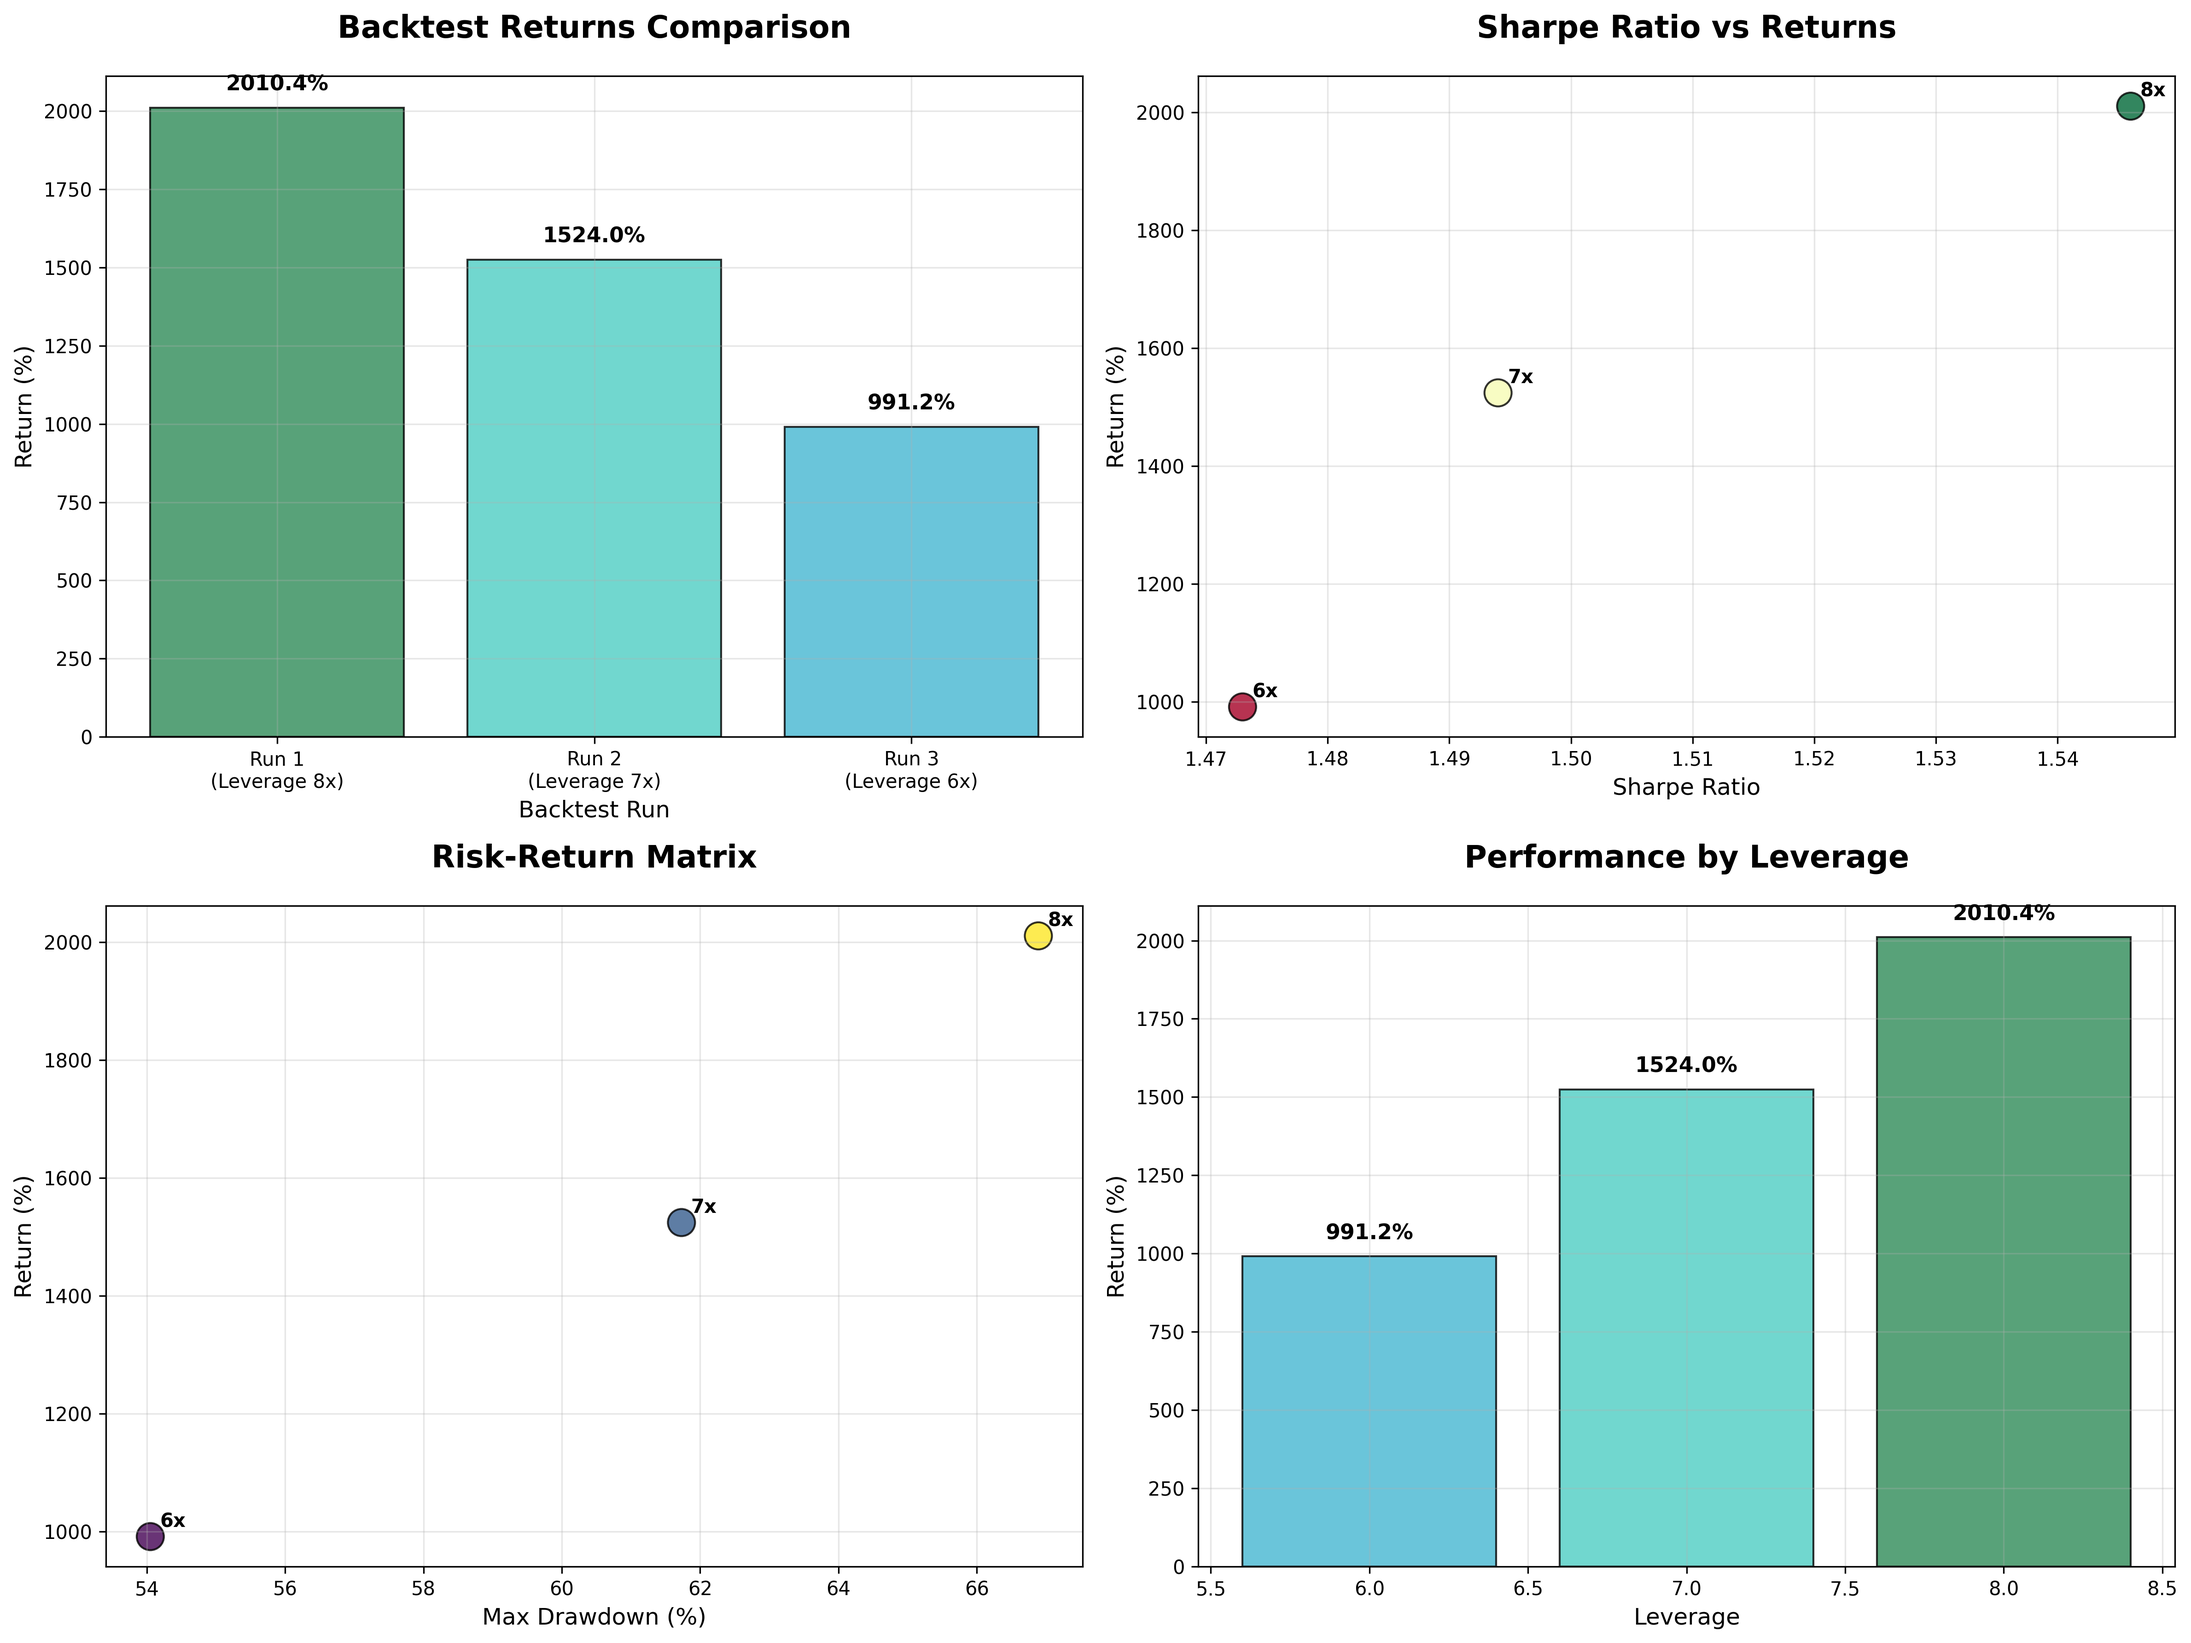
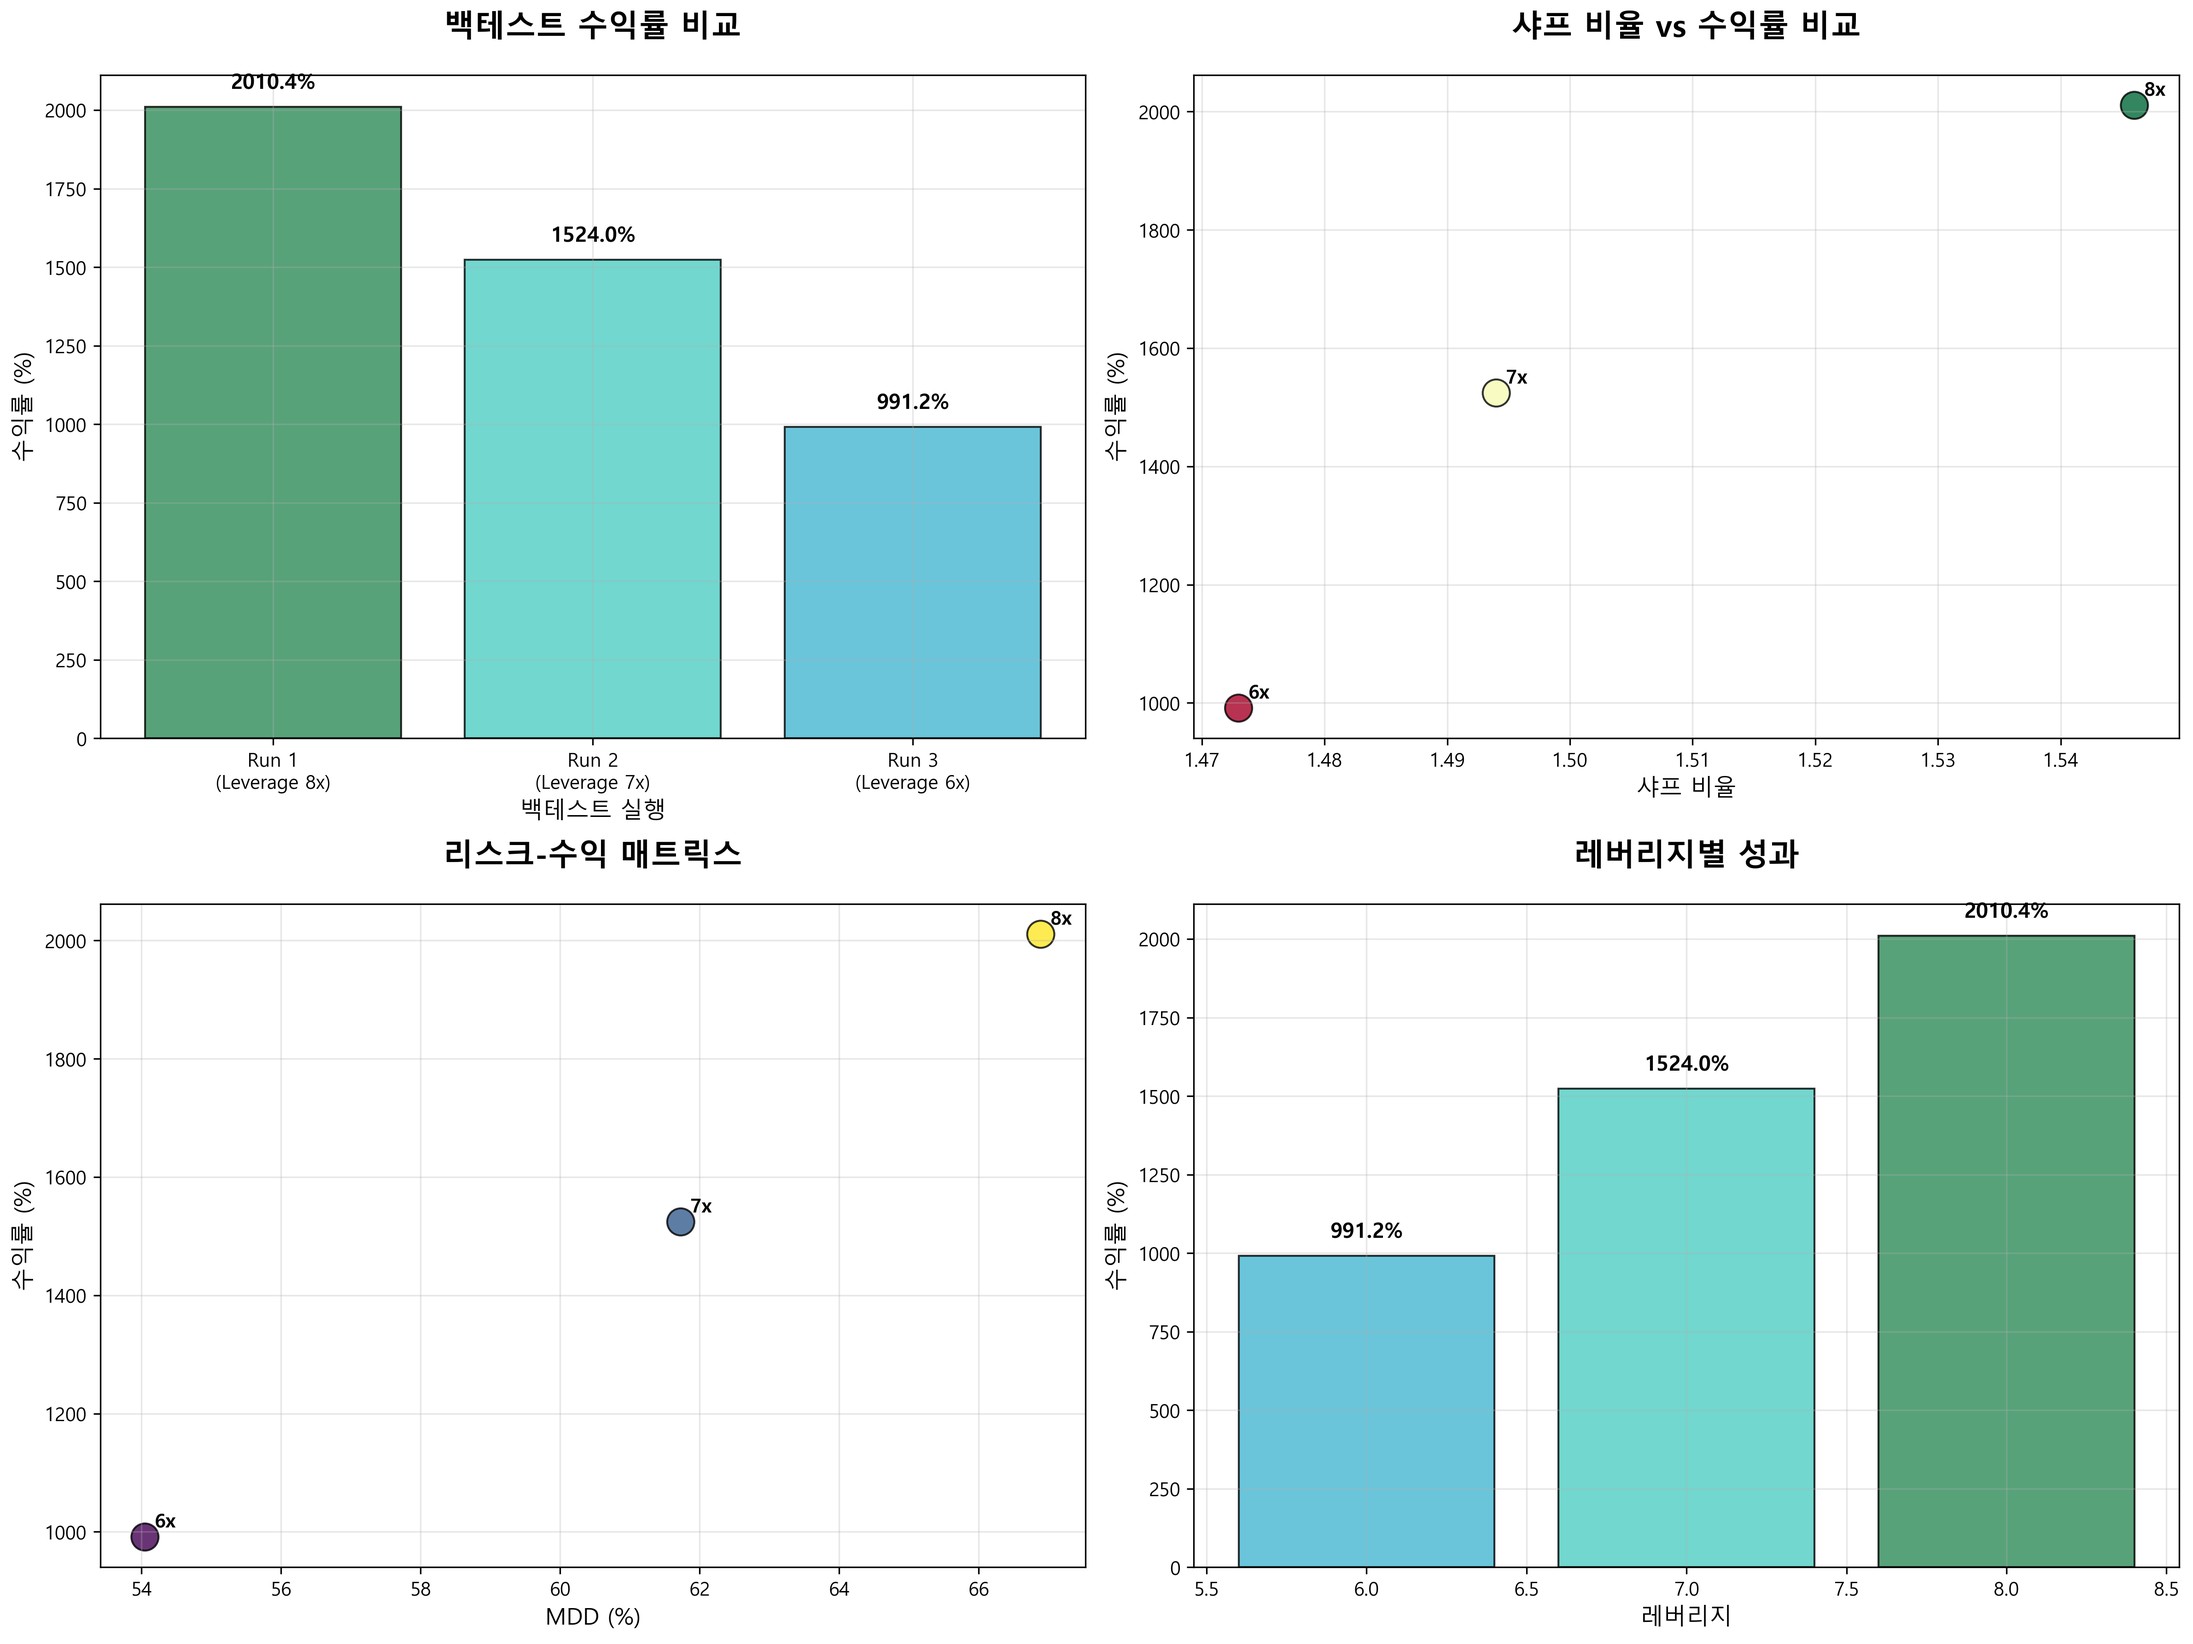
update

diff --git a/btc_martingale_backtest/create_performance_charts.py b/btc_martingale_backtest/create_performance_charts.py
@@ -6,7 +6,34 @@ from datetime import datetime
 import os
 
 # 한글 폰트 설정
-plt.rcParams['font.family'] = 'DejaVu Sans'
+import matplotlib.font_manager as fm
+
+# Windows에서 사용 가능한 한글 폰트 찾기
+def find_korean_font():
+    font_list = fm.findSystemFonts(fontpaths=None, fontext='ttf')
+    korean_fonts = []
+    
+    for font_path in font_list:
+        try:
+            font_prop = fm.FontProperties(fname=font_path)
+            font_name = font_prop.get_name()
+            # 한글을 지원하는 폰트 찾기
+            if any(keyword in font_name.lower() for keyword in ['malgun', 'gulim', 'dotum', 'batang', 'gungsuh', 'nanum', 'noto']):
+                korean_fonts.append(font_name)
+        except:
+            continue
+    
+    return korean_fonts[0] if korean_fonts else 'DejaVu Sans'
+
+# 한글 폰트 설정
+try:
+    korean_font = find_korean_font()
+    plt.rcParams['font.family'] = korean_font
+    print(f"한글 폰트 설정: {korean_font}")
+except:
+    plt.rcParams['font.family'] = 'DejaVu Sans'
+    print("한글 폰트를 찾을 수 없어 기본 폰트를 사용합니다.")
+
 plt.rcParams['axes.unicode_minus'] = False
 
 def create_performance_charts():
@@ -60,9 +87,9 @@ def create_performance_charts():
     # 차트 1: 수익률 비교
     colors = ['#2E8B57', '#4ECDC4', '#45B7D1']
     bars = ax1.bar(range(len(df)), df['arithmetic_return_pct'], color=colors, alpha=0.8, edgecolor='black', linewidth=1)
-    ax1.set_title('Backtest Returns Comparison', fontsize=16, fontweight='bold', pad=20)
-    ax1.set_xlabel('Backtest Run', fontsize=12)
-    ax1.set_ylabel('Return (%)', fontsize=12)
+    ax1.set_title('백테스트 수익률 비교', fontsize=16, fontweight='bold', pad=20)
+    ax1.set_xlabel('백테스트 실행', fontsize=12)
+    ax1.set_ylabel('수익률 (%)', fontsize=12)
     ax1.set_xticks(range(len(df)))
     ax1.set_xticklabels([f'Run {i+1}\n(Leverage {lev}x)' for i, lev in enumerate(df['leverage'])])
     ax1.grid(True, alpha=0.3)
@@ -76,9 +103,9 @@ def create_performance_charts():
     # 차트 2: 샤프 비율 vs 수익률
     scatter = ax2.scatter(df['sharpe_ratio'], df['arithmetic_return_pct'], 
                          c=df['arithmetic_return_pct'], cmap='RdYlGn', s=200, alpha=0.8, edgecolors='black')
-    ax2.set_title('📊 Sharpe Ratio vs Returns', fontsize=16, fontweight='bold', pad=20)
-    ax2.set_xlabel('Sharpe Ratio', fontsize=12)
-    ax2.set_ylabel('Return (%)', fontsize=12)
+    ax2.set_title('샤프 비율 vs 수익률 비교', fontsize=16, fontweight='bold', pad=20)
+    ax2.set_xlabel('샤프 비율', fontsize=12)
+    ax2.set_ylabel('수익률 (%)', fontsize=12)
     ax2.grid(True, alpha=0.3)
     
     # 각 점에 레버리지 표시
@@ -89,9 +116,9 @@ def create_performance_charts():
     # 차트 3: 리스크-수익 매트릭스
     risk_return = ax3.scatter(df['max_drawdown_pct'], df['arithmetic_return_pct'], 
                              c=df['sharpe_ratio'], s=200, cmap='viridis', alpha=0.8, edgecolors='black')
-    ax3.set_title('⚖ Risk-Return Matrix', fontsize=16, fontweight='bold', pad=20)
-    ax3.set_xlabel('Max Drawdown (%)', fontsize=12)
-    ax3.set_ylabel('Return (%)', fontsize=12)
+    ax3.set_title('리스크-수익 매트릭스', fontsize=16, fontweight='bold', pad=20)
+    ax3.set_xlabel('MDD (%)', fontsize=12)
+    ax3.set_ylabel('수익률 (%)', fontsize=12)
     ax3.grid(True, alpha=0.3)
     
     # 각 점에 레버리지 표시
@@ -101,9 +128,9 @@ def create_performance_charts():
     
     # 차트 4: 레버리지별 성과
     ax4.bar(df['leverage'], df['arithmetic_return_pct'], color=colors, alpha=0.8, edgecolor='black', linewidth=1)
-    ax4.set_title('🎯 Performance by Leverage', fontsize=16, fontweight='bold', pad=20)
-    ax4.set_xlabel('Leverage', fontsize=12)
-    ax4.set_ylabel('Return (%)', fontsize=12)
+    ax4.set_title('레버리지별 성과', fontsize=16, fontweight='bold', pad=20)
+    ax4.set_xlabel('레버리지', fontsize=12)
+    ax4.set_ylabel('수익률 (%)', fontsize=12)
     ax4.grid(True, alpha=0.3)
     
     # 수익률 값 표시
@@ -131,19 +158,19 @@ def create_performance_charts():
     avg_var = df['avg_var_dollar'].mean()
     
     summary_text = f"""
-    📊 PORTFOLIO PERFORMANCE SUMMARY
+    PORTFOLIO PERFORMANCE SUMMARY
     
-    💰 Best Return: {best_return:.1f}%
-    📈 Average Return: {avg_return:.1f}%
-    ⚡ Average Sharpe: {avg_sharpe:.3f}
-    📉 Average Drawdown: {avg_drawdown:.1f}%
-    🎯 Total Trades: {total_trades:,}
-    💸 Avg Commission: {avg_commission:.1f}%
-    📊 Average VaR: ${avg_var:.0f}
+    Best Return: {best_return:.1f}%
+    Average Return: {avg_return:.1f}%
+    Average Sharpe: {avg_sharpe:.3f}
+    Average Drawdown: {avg_drawdown:.1f}%
+    Total Trades: {total_trades:,}
+    Avg Commission: {avg_commission:.1f}%
+    Average VaR: ${avg_var:.0f}
     
-    🏆 Total Backtests: {len(df)}
-    ✅ All Profitable: {len(df)}/{len(df)}
-    🚨 Margin Calls: 0
+    Total Backtests: {len(df)}
+    All Profitable: {len(df)}/{len(df)}
+    Margin Calls: 0
     """
     
     ax1.text(0.1, 0.9, summary_text, transform=ax1.transAxes, fontsize=14,
